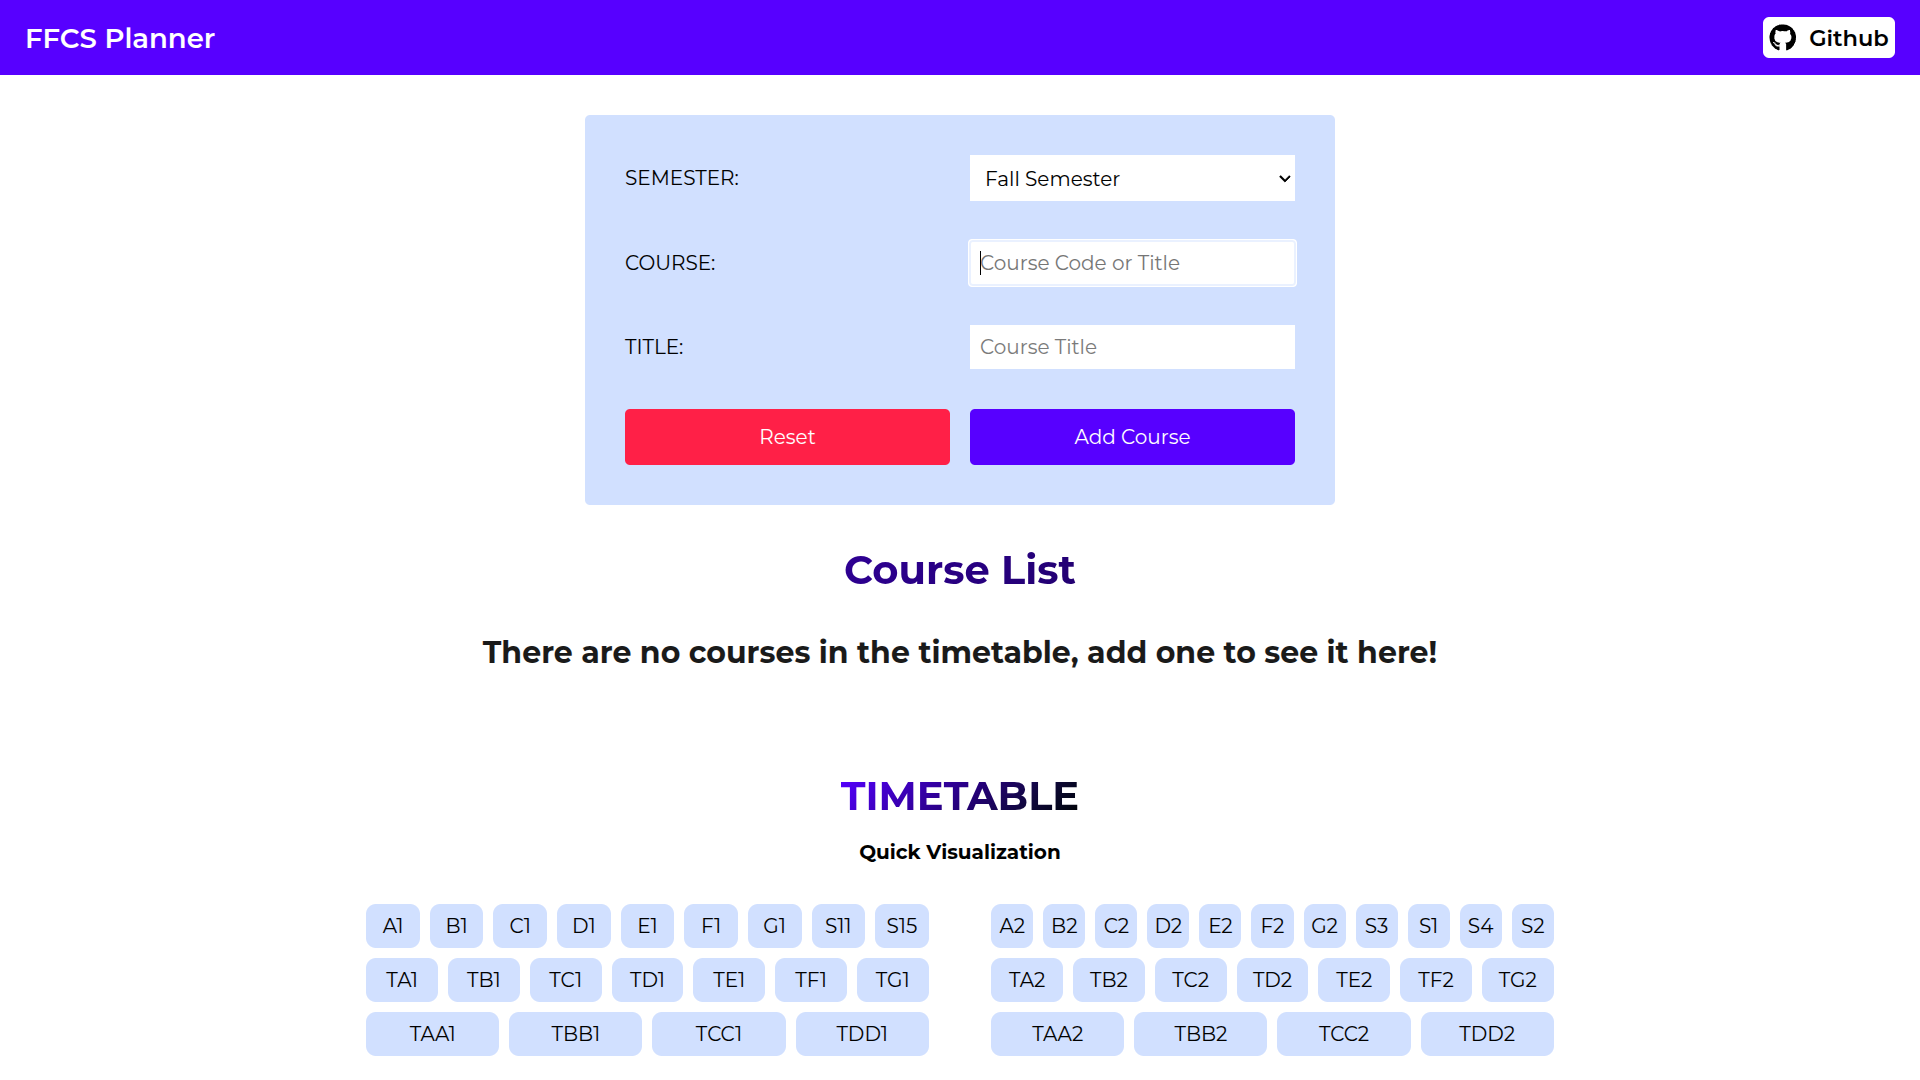
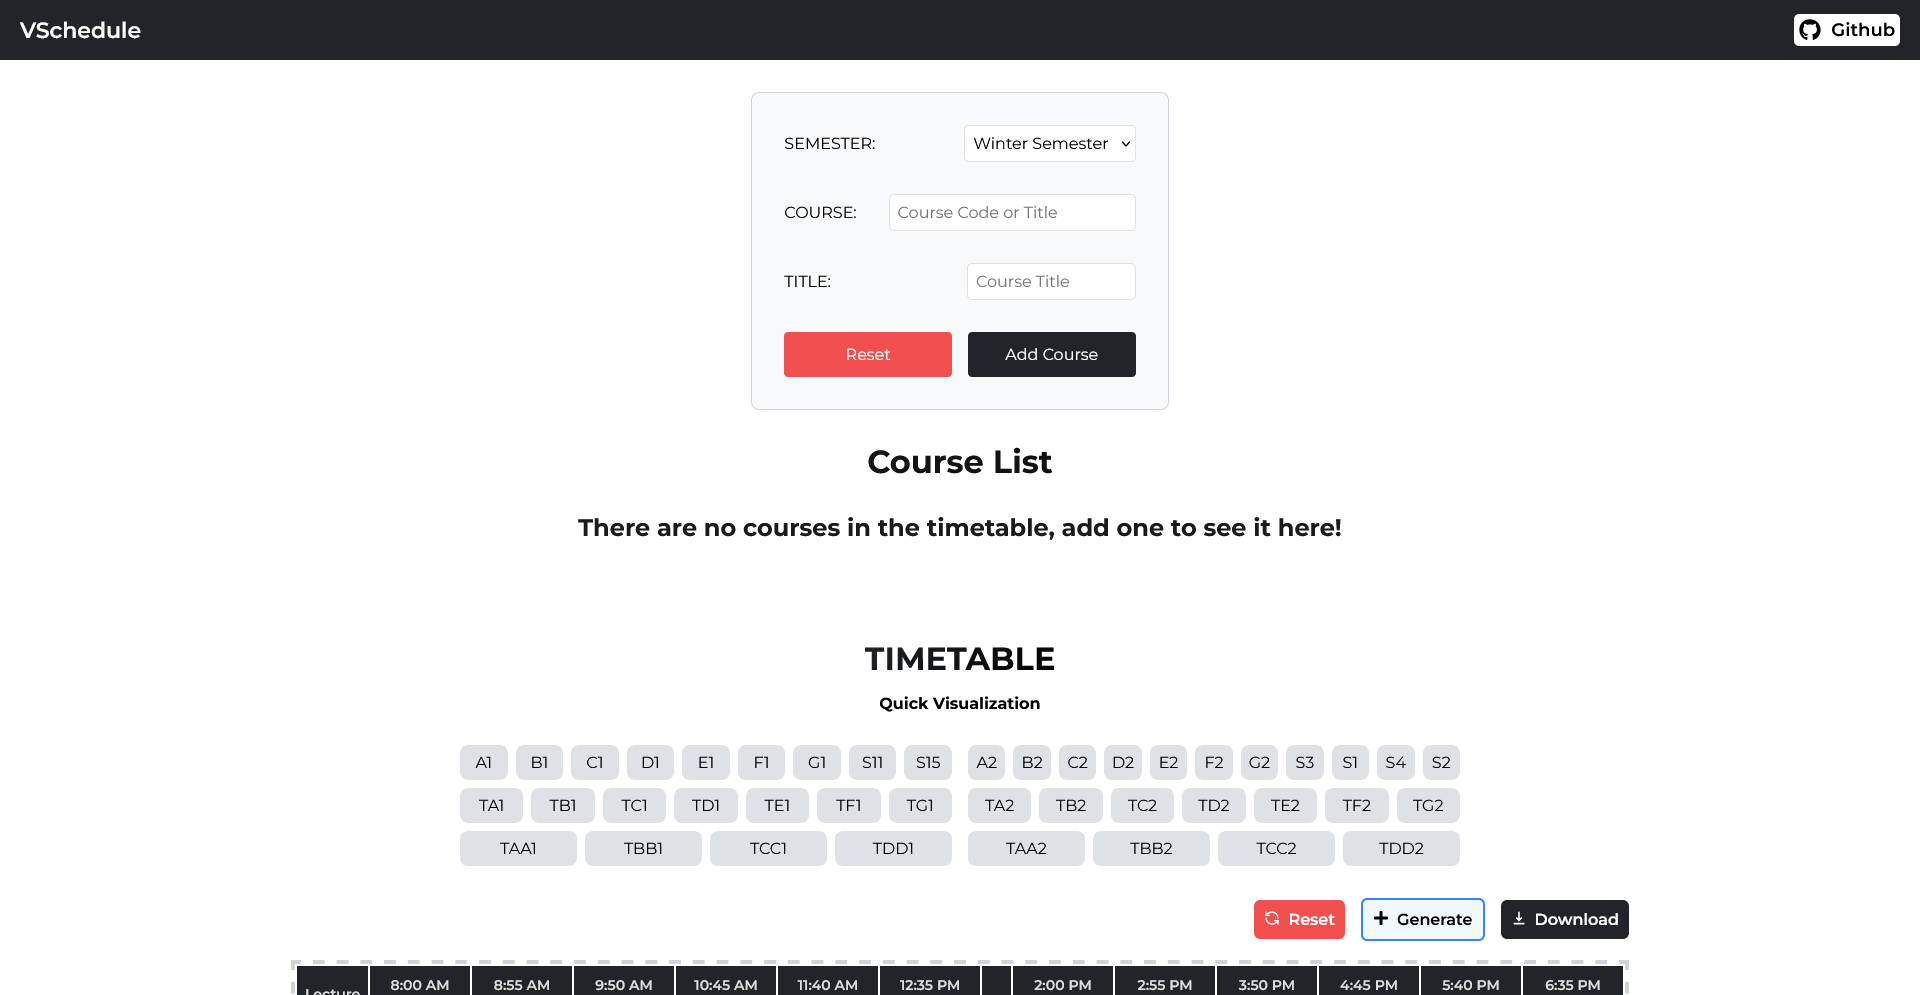
Readme update

diff --git a/README.md b/README.md
@@ -1,35 +1,42 @@
-# 📅 FFCS VIT Timetable Planner
+# VSCHEDULE - FFCS VIT Timetable Planner
 
 A sleek and efficient planner to help VIT students build their **FFCS** timetable with ease.
 
 ---
 
-## ✨ Features
+## Features
 
-- 📌 Select courses and visualize your weekly schedule
-- 🧠 Conflict detection
-- 💡 Clean UI for easy course management
-- 💾 Save and load timetable drafts
+- Select courses and visualize your weekly schedule
+- Conflict detection
+- Clean UI for easy course management
+- Save and load timetable drafts
 
 ---
 
-## 📸 Screenshots
+##  Screenshots
 
-**Add Courses**
-![Add Courses](./assets/start.png)
+**Initial View**
+![Initial View](./assets/start.png)
+
+**Add Courses (Suggestion)**
+![Add Courses](./assets/add_courses.png)
 
 **Course List**
-![Add Courses](./assets/courses.png)
+![Course List](./assets/courses_success.png)
 
 **Timetable View**
-![Add Courses](./assets/timetable_success.png)
+![Timetable View](./assets/timetable_success.png)
 
 **Clash Indication**
-![Add Courses](./assets/timetable_clash.png)
+![Course Clash Indication](./assets/courses_clash.png)
+![Timetable Clash Indication](./assets/timetable_clash.png)
+
+**Generate Timetable (Backtrack)**
+![Timetable Generation with Backtracking](./assets/timetable_generate.png)
 
 ---
 
-## 🛠 Technologies Used
+## Technologies Used
 
 - HTML
 - CSS
@@ -38,7 +45,7 @@ A sleek and efficient planner to help VIT students build their **FFCS** timetabl
 
 ---
 
-## 🙋♂ How It Works
+##  How It Works
 
 1. Choose the course code by searching the code/title.
 2. Add the course to the course list.
@@ -47,7 +54,7 @@ A sleek and efficient planner to help VIT students build their **FFCS** timetabl
 
 ---
 
-## 📄 License
+## License
 
 This project is licensed under the MIT License — see the [LICENSE](LICENSE) file for details.
 
